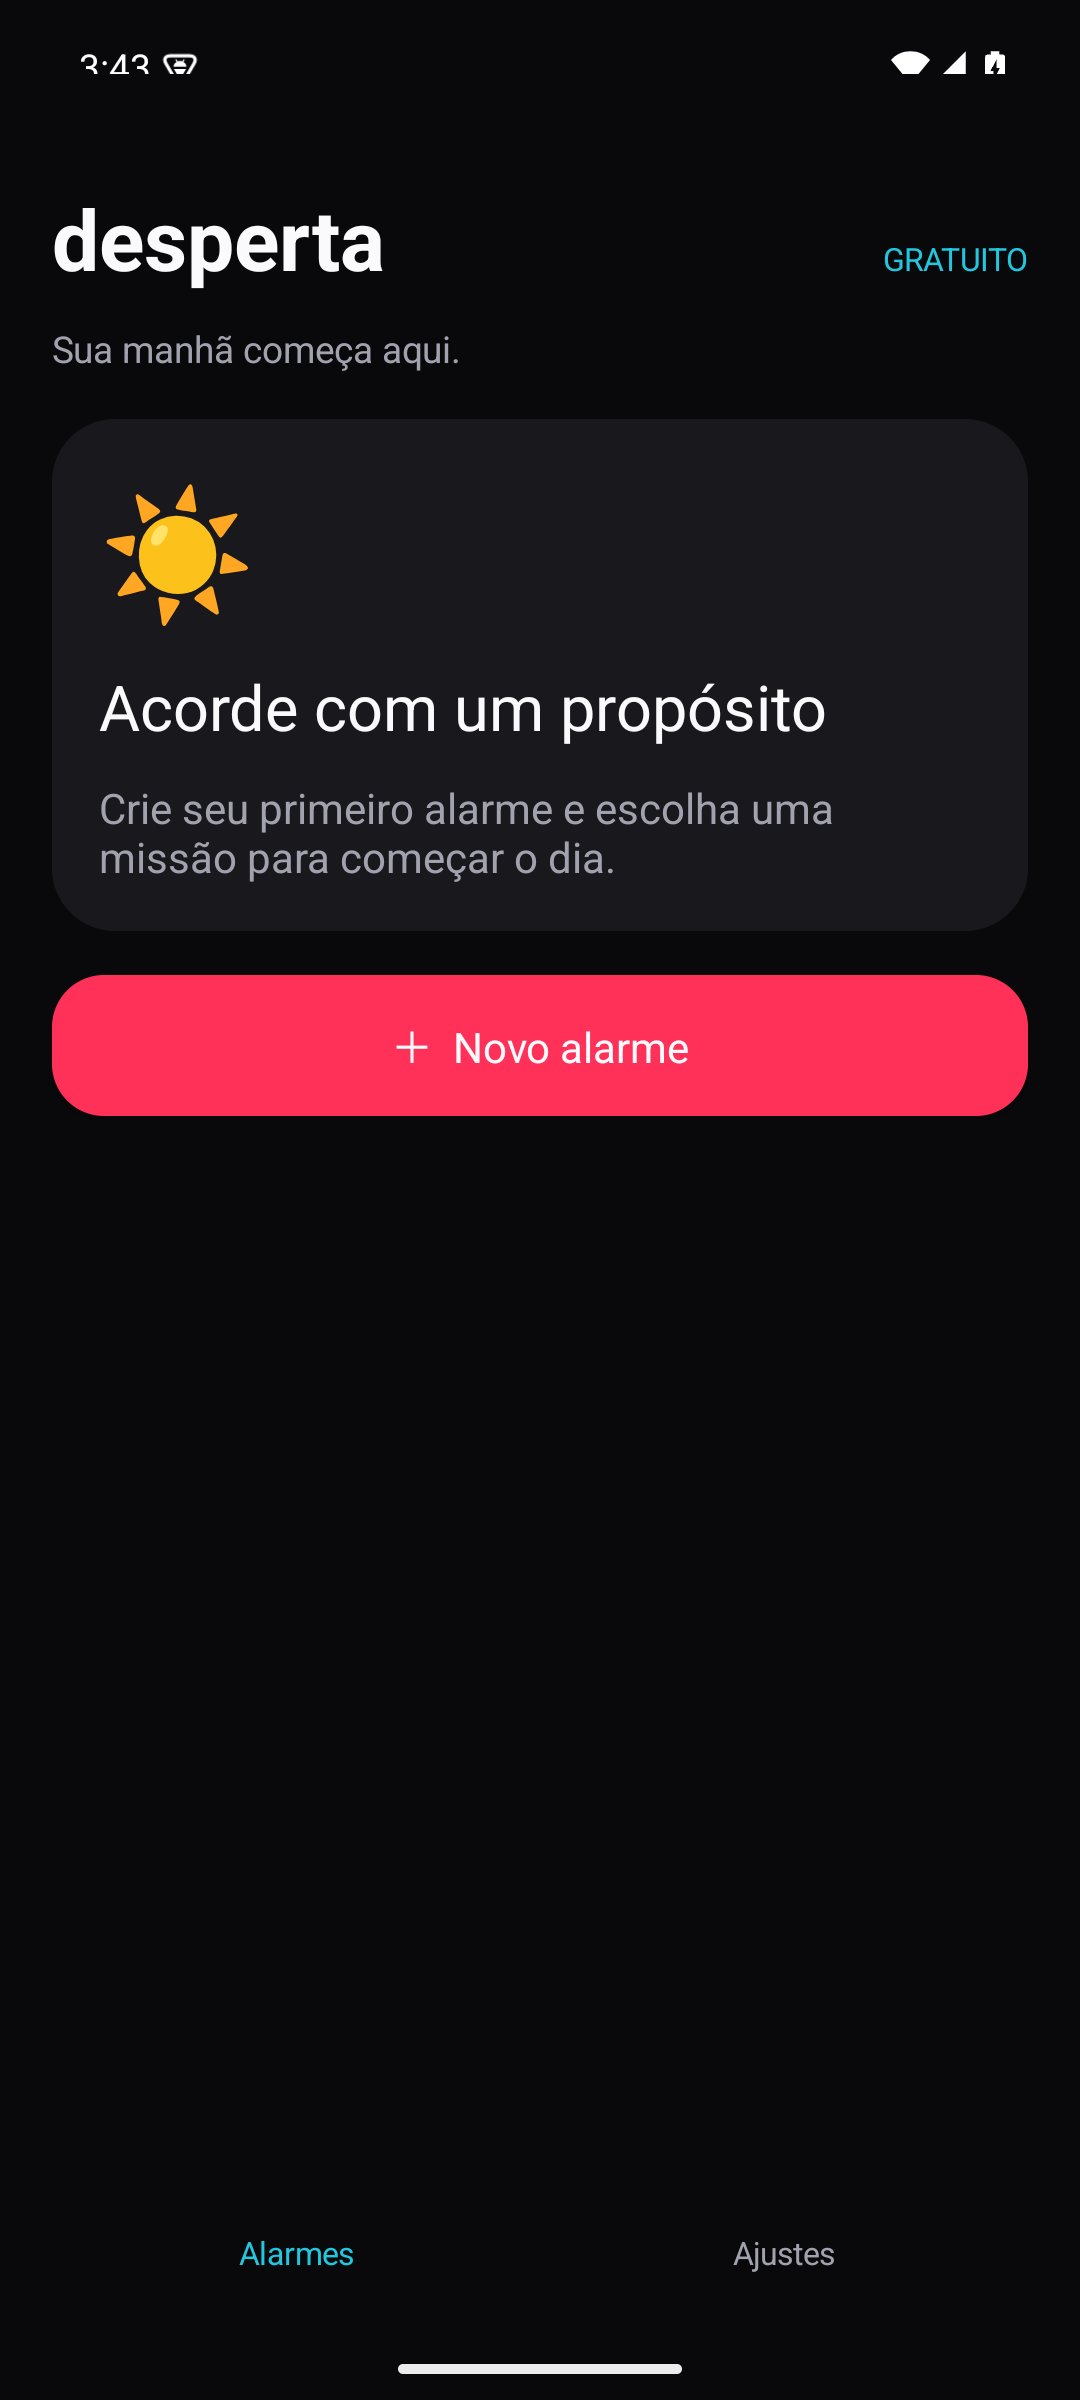
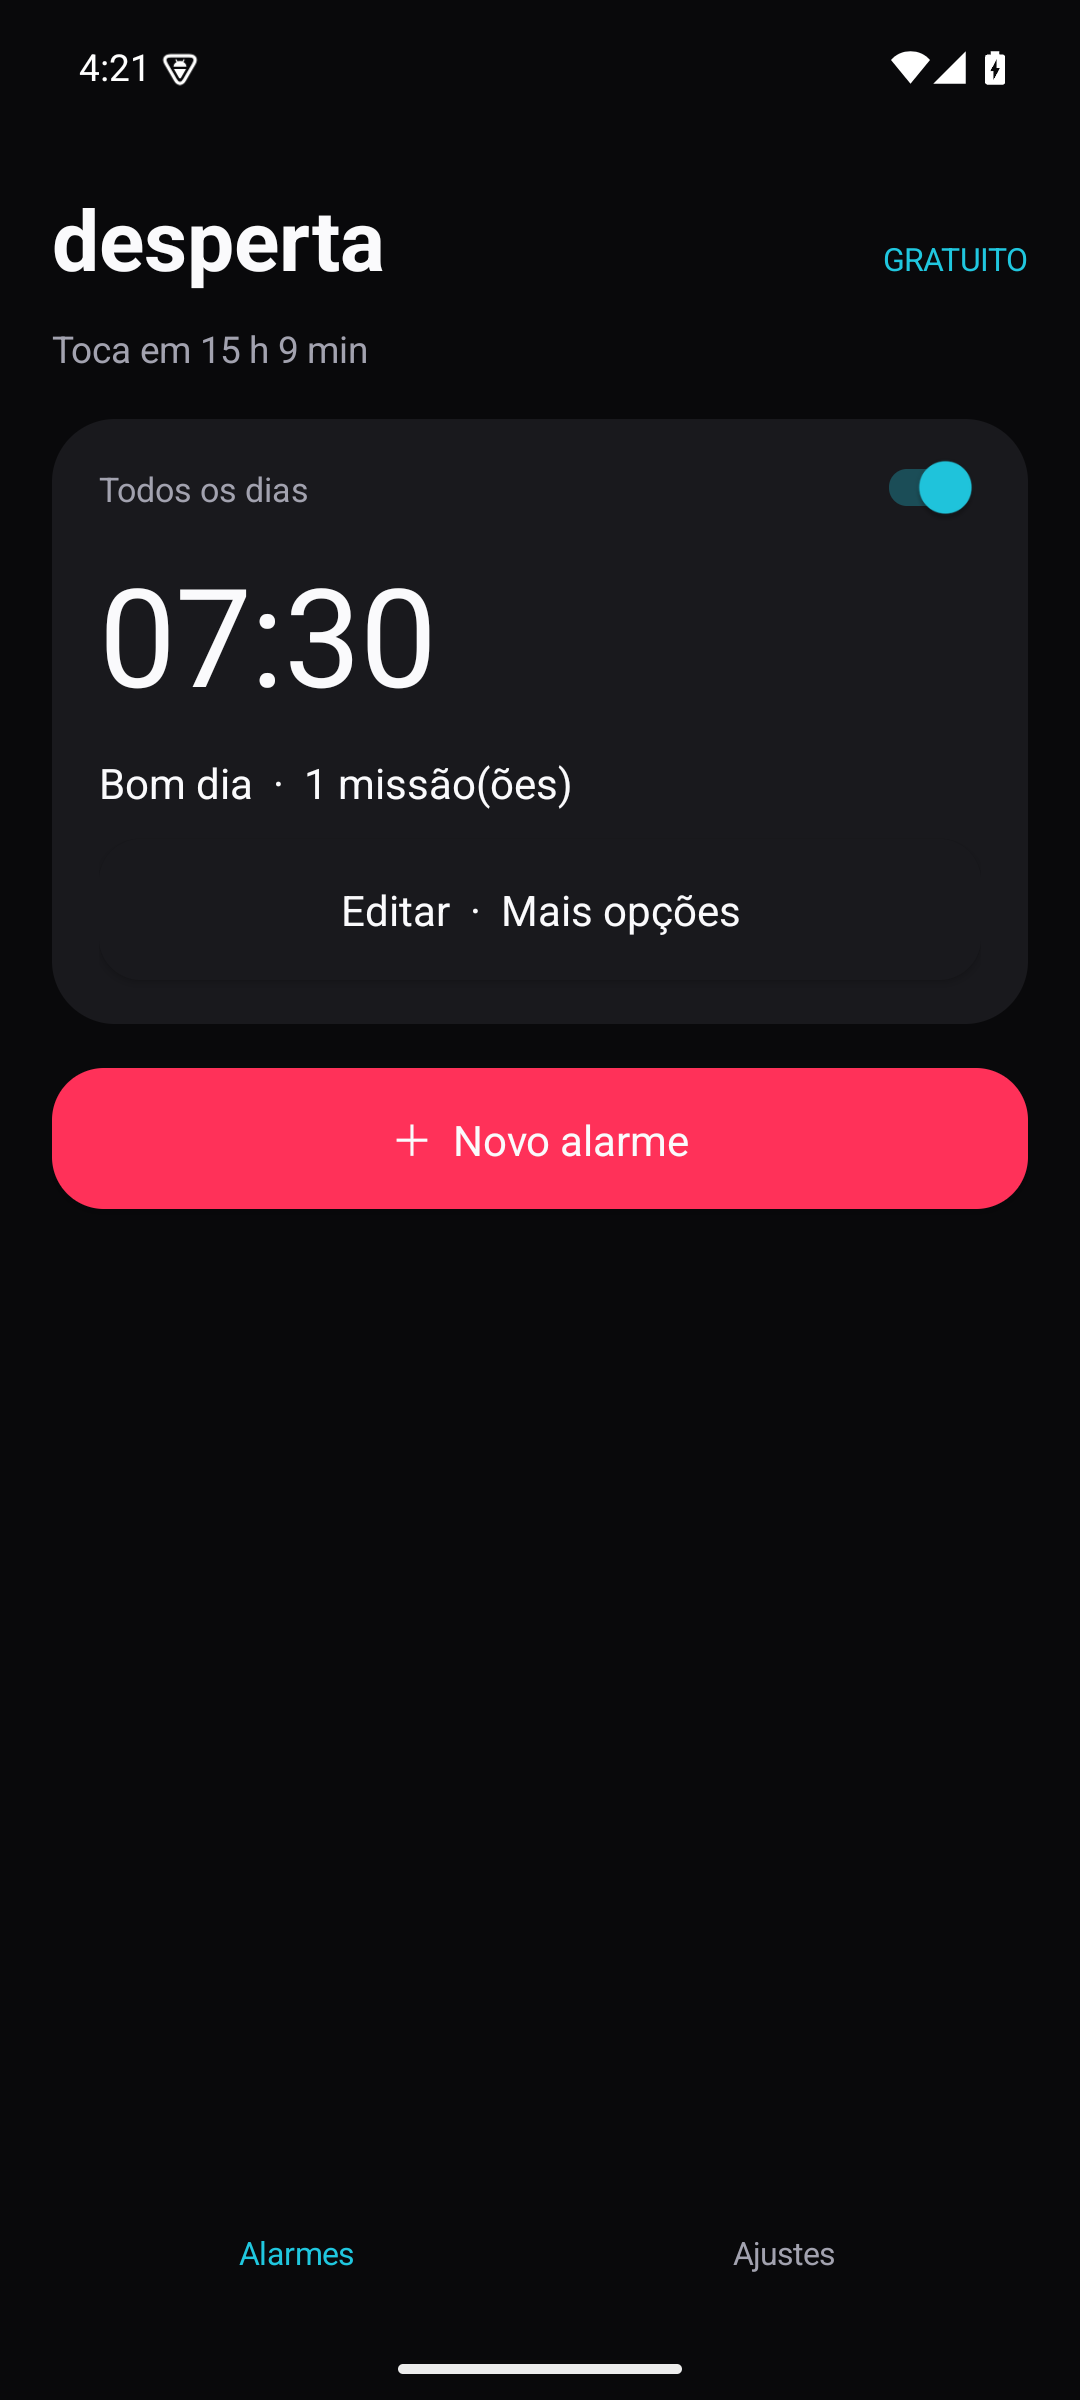
Verify signed APK flows and document release evidence

Changed region(s): [[0.0306, 0.1875, 0.9778, 0.5312], [0.0611, 0.125, 0.3972, 0.1562], [0.825, 0.1875, 0.9167, 0.2188]]

diff --git a/app/src/main/java/com/desperta/RingActivity.java b/app/src/main/java/com/desperta/RingActivity.java
@@ -401,7 +401,7 @@ public class RingActivity extends Activity {
         if (bitmap != null) {
           BitmapDrawable image = new BitmapDrawable(getResources(), bitmap);
           image.setGravity(android.view.Gravity.FILL);
-          return image;
+          return new android.graphics.drawable.LayerDrawable(new Drawable[] {image, new android.graphics.drawable.ColorDrawable(0xB809090B)});
         }
       } catch (RuntimeException | java.io.IOException ignored) {
         // Fall back to the dark built-in wallpaper if access expired.

diff --git a/app/src/main/java/com/desperta/AlarmService.java b/app/src/main/java/com/desperta/AlarmService.java
@@ -892,7 +892,7 @@ public class AlarmService extends Service {
             : new Notification.Builder(this);
     return builder
         .setSmallIcon(android.R.drawable.ic_lock_idle_alarm)
-        .setContentTitle(preview ? "Preview alarm" : "Wake-up alarm")
+        .setContentTitle(preview ? "Prévia do alarme" : "Hora de despertar")
         .setContentText(TextUtils.isEmpty(alarm.label) ? "Desperta" : alarm.label)
         .setCategory(Notification.CATEGORY_ALARM)
         .setPriority(Notification.PRIORITY_MAX)

diff --git a/docs/FUNCIONALIDADES.md b/docs/FUNCIONALIDADES.md
@@ -29,8 +29,8 @@ O escopo abaixo corresponde às cinco primeiras imagens e às três adicionais. 
 | Encontrar objeto doméstico | Reconhecimento local de copo, livro, garrafa, cadeira ou planta com ML Kit | Implementado; reconhecimento do objeto ainda não validado com cena real |
 | Falar no ritmo | Reconhecimento de voz + janela temporal | Normalização da palavra testada; ritmo e microfone ainda pendentes |
 | Confirmação de despertar | Novo chamado após intervalo | Disparo da confirmação e regressão contra repetição infinita testados |
-| Escolher áudio personalizado | Seletor de documento com acesso persistente | Implementado; seleção de arquivo real pelo Android ainda não testada |
-| Ouvir áudio antes de salvar | Prévia com duração limitada | Implementado; botão de amostra ainda requer checagem manual |
+| Escolher áudio personalizado | Seletor de documento com acesso persistente | WAV selecionado pelo seletor Android; acesso persistiu após atualizar o APK; reprodução verificada |
+| Ouvir áudio antes de salvar | Prévia com duração limitada | Botão de amostra acionado; MediaPlayer iniciou e encerrou o WAV de 5 segundos |
 | Volume | Volume por alarme | Configuração e serviço; percepção sonora física pendente |
 | Vibração | Vibrator | Configuração testada; vibração física pendente |
 | Despertar gradual | Rampa de volume | Serviço e configuração |
@@ -40,7 +40,7 @@ O escopo abaixo corresponde às cinco primeiras imagens e às três adicionais. 
 | Amostras de voz | Botão de exemplo de hora/clima/nome | Implementado; teste audível de TTS pendente |
 | Efeito extra alto | Volume máximo do fluxo de alarme | Limitado ao volume físico do aparelho, sem promessa de amplificação além do hardware |
 | Soneca: intervalo e quantidade | Limite por sessão | Estado e agenda Android |
-| Papel de parede | Aurora/Oceano/Noite ou documento escolhido | Escolha Oceano testada; seletor de imagem própria ainda não testado |
+| Papel de parede | Aurora/Oceano/Noite ou documento escolhido | Oceano testado; PNG selecionado, persistido e exibido na prévia com contraste verificado |
 | Salvar / cancelar | Persistência ou descarte explícito | Fluxo Android |
 | Otimização de alarme | Status e atalhos de permissões exatas, notificações, tela cheia e bateria | Permissões controladas pelo Android |
 | Ajustes avançados / prevenção de fuga | Sessão ativa, missões e informações de proteção | Forçar parada e revogação de permissão continuam possíveis |

diff --git a/docs/TESTES.md b/docs/TESTES.md
@@ -67,7 +67,6 @@ O AVD usado é Pixel 7, imagem `system-images;android-35;google_apis;arm64-v8a`.
 
 - **Não validados em aparelho físico:** foco/iluminação da câmera; caminhada, agitação e agachamentos; reconhecimento de objetos/fotos em cenários reais; microfone/ritmo e voz audível; vibração, Bluetooth e volume percebido.
 - Foto usa comparação visual aproximada. Agachamento usa capturas sucessivas de corpo inteiro, verificando flexão e extensão; não equivale a acompanhamento contínuo por vídeo.
-- Seletor de áudio/imagem personalizada têm implementação, mas o percurso completo com documentos reais ainda requer teste manual.
 - O disparo agendado, soneca, fila, confirmação de despertar, atributos de áudio, restauração de volume, persistência e missões descritas nos casos acima foram exercitados pelo Android do emulador. Isso não prova o comportamento de economia de bateria de cada fabricante.
 
 Consulte a [matriz completa das funções](FUNCIONALIDADES.md) para separar implementação de cobertura de teste.
@@ -75,3 +74,9 @@ Consulte a [matriz completa das funções](FUNCIONALIDADES.md) para separar impl
 ## Verificação manual do administrador
 
 No emulador, abri Ativar proteção, aceitei a tela de administrador do Android, confirmei `com.desperta/.ProtectionAdmin` em `dumpsys device_policy`, usei Remover e confirmei que o administrador desapareceu. O recurso é opcional e reversível.
+
+## Arquivos personalizados e inspeção visual
+
+Selecionei um WAV de cinco segundos pelo seletor nativo de Downloads, acionei Ouvir som e observei os eventos `started`, `stopped` e liberação do MediaPlayer. Após atualizar o APK, a prévia voltou a reproduzir o arquivo: `USAGE_ALARM`, `CONTENT_TYPE_SONIFICATION`, mono, 16000 Hz, estado `started`. A percepção audível continua não validada, pois o emulador roda sem saída física de áudio.
+
+Selecionei um PNG pelo seletor nativo, salvei e confirmei sua exibição após atualizar o APK. Corrigi o contraste sobre imagens claras. Também corrigi as margens de Ajustes para não sobrepor as barras do Android. As capturas em `screenshots/` foram obtidas do aplicativo em execução, sem mockups.

diff --git a/README.md b/README.md
@@ -33,4 +33,6 @@ Veja [funcionalidades e evidências](docs/FUNCIONALIDADES.md) e [privacidade](do
 
 ## Capturas
 
-Capturas reais do app no emulador, sem mockups: [tela de alarmes](docs/screenshots/01-alarmes.png).
+Capturas reais do app no emulador: [Alarmes](docs/screenshots/01-alarmes.png) · [Editor](docs/screenshots/02-editor.png) · [Som](docs/screenshots/03-som.png) · [Prévia](docs/screenshots/04-alarme.png) · [Ajustes](docs/screenshots/05-ajustes.png).
+
+<img src="docs/screenshots/01-alarmes.png" width="220" alt="Lista de alarmes"> <img src="docs/screenshots/02-editor.png" width="220" alt="Editor com código QR cadastrado">
